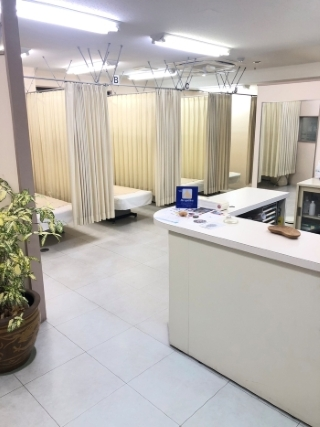
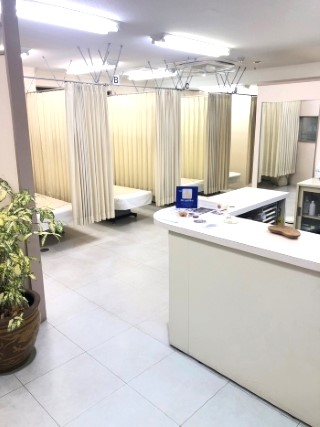
画像と文言の修正

diff --git a/index.html b/index.html
@@ -437,13 +437,13 @@
     <img src="futari4.png" alt="院内イメージ" class="hero-img">
     <div class="hero-overlay"></div>
     <div class="hero-content">
-      <div class="hero-badge">自然治癒力を高める</div>
+      <!-- <div class="hero-badge">自然治癒力を高める</div>
       <h1>心と体を、丁寧に整える<br>鍼灸治療院</h1>
       <p class="hero-desc">
         東洋医学の知恵と現代の技術を融合し、<br>
         あなた本来の「ととのう」をサポートします。
-      </p>
-      <a class="btn-primary" href="#contact">初回カウンセリング予約</a>
+      </p> -->
+      <a class="btn-primary" href="#contact">初回予約</a>
       <a class="btn-outline" href="#menu">施術メニューを見る</a>
     </div>
   </div>
@@ -456,7 +456,7 @@
           <h3>はじめての方へ</h3>
           <br>
             <ul class="menu-feature-list">
-              <li>服装については、なるべくTシャツ・短パンなど軽装で受けれるようによろしくお願いします。</li>
+              <li>施術時の服装は、締め付けないゆったりした、リラックスできる服装が理想です。</li>
               <br>
               <li>現在服用中のお薬があれば、持参していただければより適切な治療ができます。</li>
             </ul>
@@ -476,22 +476,25 @@
 
       <!-- 右：料金カード -->
       <div class="menu-price-card">
-        <div class="price-header">料金表</div>
-        <!-- <img src="futari5.png" alt="院内イメージ" class="price-img"> -->
+        <div class="price-header">施術料金</div>
         <table class="price-table">
           <tr>
-            <td class="price-label">治療費</td>
+            <td class="price-label">治療費（趙先生）</td>
             <td class="price-amount">¥6,000 <span>（税込）</span></td>
+          </tr>
+                    <tr>
+            <td class="price-label">治療費（櫛橋祥子先生）</td>
+            <td class="price-amount">¥5,000 <span>（税込）</span></td>
           </tr>
           <tr>
             <td class="price-label">
-              初回問診費
+              初診料
               <small>初回のみ</small>
             </td>
             <td class="price-amount">¥2,000 <span>（税込）</span></td>
           </tr>
         </table>
-        <p class="price-note">※ 初回は問診費＋治療費の合計 ¥8,000 となります。</p>
+        <p class="price-note">※ 初回は問診費＋治療費の合計金額となります。</p>
       </div>
     </div>
   </div>
@@ -504,7 +507,7 @@
       <div class="avatar"><img src="趙先生顔写真.png"></div>
       <div class="profile-info">
         <h3>趙　吉昌</h3>
-        <p class="profile-role">院長・中医師・鍼灸師</p>
+        <p class="profile-role">中医師・鍼灸師</p>
         <p class="profile-bio">
           私はこれまで、「漢方医学」と「鍼灸（経絡・ツボを用いた治療）」の両方を学び、研鑽を重ねてまいりました。日本に来てからは、特に鍼灸を中心に研究を続けております。
           <br>中国医学には、気血や陰陽などをもとに身体の状態を見極める「弁証論治」という理論体系があります。一方で、鍼灸による物理的な治療については、まだ十分に理論化されていない部分も多いと感じています。
@@ -515,7 +518,6 @@
           <br>これからも研究と治療に真摯に向き合い、患者様に笑顔になっていただけるよう、日々努めてまいります。        </p>
         <div class="license-tags">
           <span class="tag">鍼師・灸師免許</span>
-          <span class="tag">中医学研修修了</span>
         </div>
       </div>
     </div>
@@ -523,7 +525,7 @@
       <div class="avatar"><img src="syouko.png"></div>
       <div class="profile-info">
         <h3>櫛橋　祥子</h3>
-        <p class="profile-role">鍼灸師</p>
+        <p class="profile-role">鍼灸師・国際中医師</p>
         <p class="profile-bio">
           私は幼い頃から、現代医学では治らないとされた病気が、父の鍼治療によって改善していく姿を見て育ちました。痛みに苦しんでいた患者様が、治療を重ねるごとに笑顔を取り戻していく。その光景は、今でも私の原動力となっています。
           「目の前の患者様を救いたい」という一心で鍼灸師の道を選び、父のもとで臨床経験を積み上げて、気づけば20年が経ちました。
@@ -581,7 +583,7 @@
         <img src="当院について③.JPG" alt="治療室">
         <div class="gallery-caption">
           <div class="caption-title">治療室</div>
-          <div class="caption-text">清潔で静かな施術室です。プライバシーに配慮した個室で、安心して治療をお受けいただけます。</div>
+          <div class="caption-text">清潔で静かな施術室です。安心して治療をお受けいただけます。</div>
         </div>
       </div>
 
@@ -622,7 +624,7 @@
   <div class="cta-block" id="contact">
     <div class="sec-label">ご予約・お問い合わせ</div>
     <div class="cta-title">まずはお気軽にご相談ください</div>
-    <p class="cta-sub">初回のカウンセリングは無料です。<br>どんな小さなお悩みもお聞きします。</p>
+    <p class="cta-sub">どんな小さなお悩みもお聞きします。</p>
     <a class="btn-primary" href="tel:[phone redacted]">お電話でのご予約</a>
   </div>
 